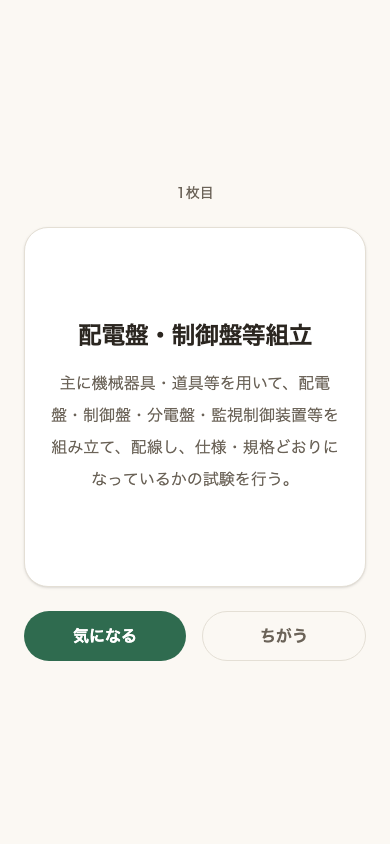
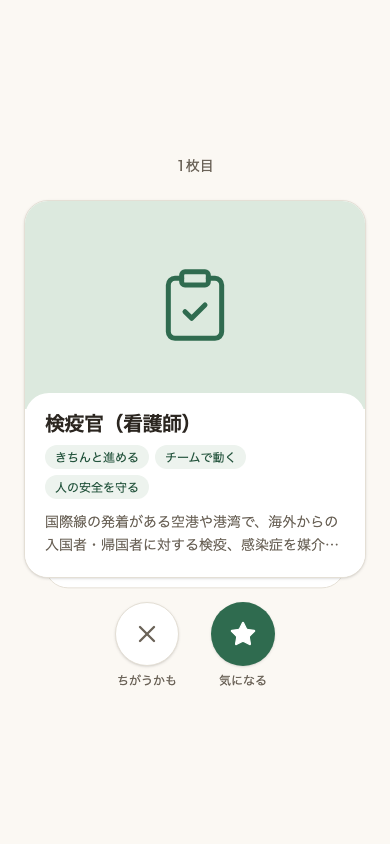
docs: READMEをスワイプ形式に合わせて更新し「なぜ作ったか」を追加
- デモURLをVercelの現URL（web-soma2028.vercel.app）に更新。
  Deployment Protectionが有効になっていたため無効化してもらった上で、
  本番環境から実際にスクリーンショットを撮り直した
  （トップ・スワイプカード・結果の3画面、モバイル幅390x844）
- 「なぜ作ったか」節を追加。塾講師としての実体験に基づく動機を記載
- 「技術的な見どころ」を再構成し、次カード選択アルゴリズム
  （exploit・explore・awareness_bonusの3項スコアリング）を筆頭に据えた。
  RIASEC補完・認知度ラベルはそれを支える前提として後段に配置
- 10問クイズ形式からスワイプ形式への転換の経緯を明記し、docs/design.mdへ誘導
- 「未実施の検証」（中学生本人によるユーザビリティ検証）は引き続き明記

Claude-Session: https://claude.ai/code/session_01Xf5V7BtUYAp1iWbbfdhU5c

diff --git a/README.md b/README.md
@@ -1,6 +1,6 @@
 # 夢のタネ
 
-**[デモを見る](https://web-five-chi-83.vercel.app)**
+**[デモを見る](https://web-soma2028.vercel.app)**
 （Renderの無料枠を使っているため、しばらくアクセスが無いとスリープします。
 初回アクセスは起動に50秒ほどかかることがあります）
 
@@ -18,27 +18,45 @@
 
 ## なぜ作ったか
 
-中学生は将来の夢を「持っていない」割合が最も高く（22.0%）、学年が上がるほど
-その割合は下がる（中1: 60.7% → 中3: 46.3%）。「夢が無い」ことの一因は、
-本人に合う職業をそもそも知らないという認知の制約だと考え、推薦精度ではなく
-「知らない職業との出会い（セレンディピティ）」を主指標に据えた。
+中学生のとき、将来の夢がありませんでした。高校は、行事が楽しそうだという
+理由で選びました。将来やりたいことと結びつけて選んだわけではありません。
+
+データサイエンスという分野があることを知ったのは、大学のオープンキャンパス
+です。それまで、この分野の存在自体を知りませんでした。知らなかったのだから、
+選択肢に入るはずもありませんでした。
+
+塾講師として中学生を教えるようになって、同じ状態の子に何人も会いました。
+「将来の夢は？」と聞かれて答えられない子は、夢を持つ気がないのではありません。
+知っている職業が数十個しかないだけです。その中に自分に合うものがなければ、
+答えようがない。
+
+このアプリは、夢を決めさせるためのものではありません。まだ知らない職業に
+出会う回数を増やすためのものです。だから推薦の精度ではなく、「知らなかった
+職業に出会えたか」を評価の軸に置いています。
 
 ## 技術的な見どころ
 
-- job tag（日本版O-NET、独立行政法人労働政策研究・研修機構が公開する職業情報
-  データベース）を加工し、職業興味（RIASEC）・仕事内容などの数値データから
-  推薦用の特徴量を構築
-- RIASECデータを持つ518職業中36件で欠損があり、知識・仕事の性質からRidge回帰
-  で補完しようとしたところ、入力が全欠損の7件が同一の予測値になるバグを
-  検証で発見し、`riasec_source`（実測／推定／推定不能）の3値管理で対処
+- **推薦の中心はカード選択アルゴリズム**: 右スワイプした職業の重心にユーザーの
+  位置を推定し、残りの候補を(1)推定位置との類似度(exploit)、(2)これまでに
+  見せたカード全件との最小距離(explore)、(3)認知度「知らない」職業への
+  優先度(awareness_bonus)の3項でスコアリングして次の1枚を選ぶ。序盤は探索寄りに
+  し、終盤でも類似度重視の重みに上限を設けることで、常に一定割合の探索と
+  未知の職業が混ざるようにしている（重みの値はいずれも暫定値で未検証。詳細は
+  [docs/design.md](docs/design.md)）
+- 上記の土台として、job tag（日本版O-NET、独立行政法人労働政策研究・研修機構が
+  公開する職業情報データベース）を加工し、職業興味（RIASEC）・仕事内容などの
+  数値データから推薦用の特徴量を構築。RIASECデータを持つ518職業中36件で欠損が
+  あり、知識・仕事の性質からRidge回帰で補完しようとしたところ、入力が全欠損の
+  7件が同一の予測値になるバグを検証で発見し、`riasec_source`（実測／推定／
+  推定不能）の3値管理で対処した
 - 「子どもの職業認知度」を測った公開データは存在しないため、Wikipediaの
   記事有無・ページビューを代理指標として検証したが機能せず、最終的に
   1名による自作ラベル（層化抽出した179職業）に切り替えた
-- RIASEC 6因子の相関構造をPCAで分析し、直交する主成分ベースで10問の質問に
-  答える形式を設計・実装・自己検証まで完了させたが、既存の適職診断アプリと
-  体験として見分けがつかず「知らない職業に出会う」という目的が体験に現れて
-  いないと判断し、職業カードをスワイプする形式に置き換えた
-  （設計と検証の記録は`docs/questions.md`に保持）
+- 当初はRIASEC 6因子の相関構造をPCAで分析し、直交する主成分ベースで10問の
+  質問に答える形式を設計・実装・自己検証まで完了させたが、既存の適職診断
+  アプリと体験として見分けがつかず「知らない職業に出会う」という目的が体験に
+  現れていないと判断し、現在のスワイプ形式に置き換えた（設計と検証の記録は
+  `docs/questions.md`に保持）
 - データ整備・モデル構築の過程で3つの案（Wikipedia記事有無を知名度指標に
   採用する案／認知度ラベルをモデルで全職業に拡張する案／RIASEC欠損を
   一律除外する案）を検証の上で棄却している。何を試し、何が機能せず、
